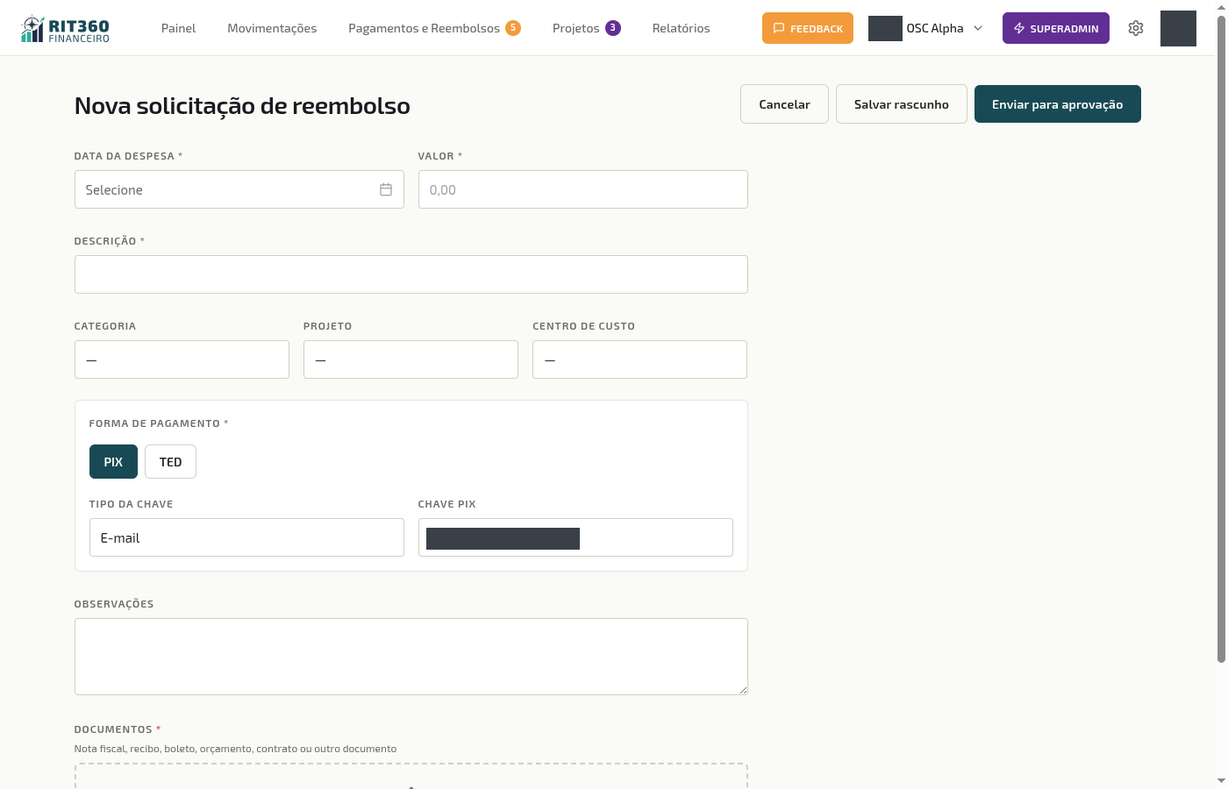
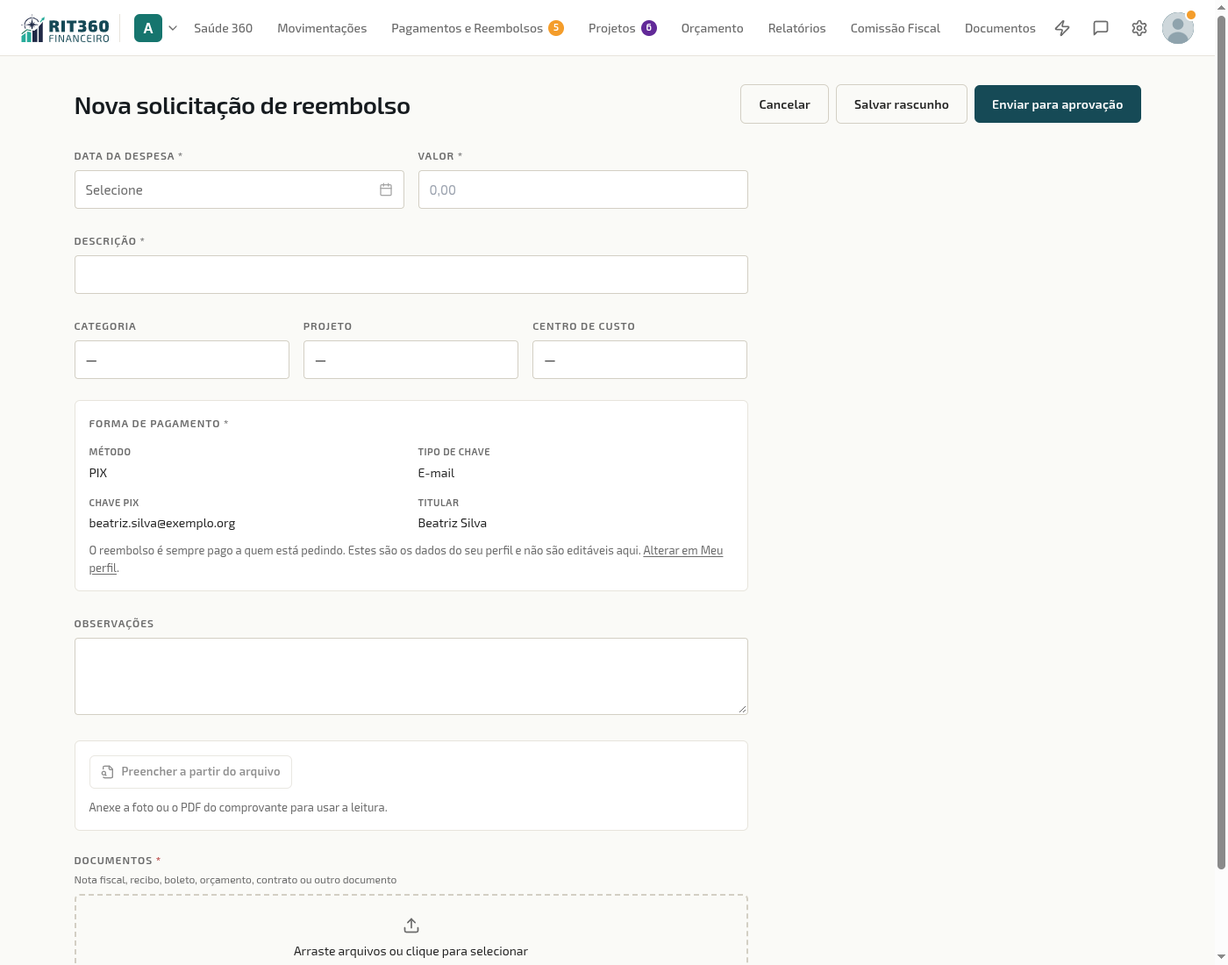
docs(manual): recapturas anonimizadas (#411), sugestão do histórico (#370), produtos WooCommerce no projeto (#418)
- Recaptura, com dados fictícios aplicados no DOM antes do disparo, de 18 imagens que
  expunham ou tarjavam dado real: usuários, papéis, alterar e-mail, responsáveis do centro
  de custo, comissão fiscal (3), reembolsos (4), pedidos (1), perfil, feedback, página
  pública (2), vincular lançamentos (desktop e celular) e financeiro do projeto.
- Novas capturas: sugestão a partir do histórico (reembolso, pedido e lançamento),
  botão "Preencher a partir do arquivo" e interruptores do gestor de centro de custo.
- Texto novo em reembolsos, pedidos e movimentações (sugestão do histórico e preencher a
  partir do arquivo), fluxo de aprovações (dois interruptores), cargos (recorte do
  coordenador) e projetos (produtos do WooCommerce, vincular vendas passadas, motivo).
- CPF de exemplo em usuarios.md trocado por valor claramente fictício e inválido.

diff --git a/modulos/projetos.md b/modulos/projetos.md
@@ -418,12 +418,6 @@ O Financeiro mostra o dinheiro do projeto sem tirar nada do caixa geral da OSC:
 ### Vincular lançamentos existentes
 {: #vincular-lançamentos-existentes }
 
-[![Janela "Vincular lançamentos existentes", com o filtro por conta, a faixa "N pode ser vinculado; M têm categoria fora das permitidas" e a lista de não elegíveis expandida, com a caixa desabilitada e o motivo em laranja](/assets/screenshots/manual-projetos-vincular-lancamentos-desktop.png)](/assets/screenshots/manual-projetos-vincular-lancamentos-desktop.png)
-*Vincular lançamentos existentes — os não elegíveis aparecem com o motivo, mas não podem ser marcados*
-
-[![A mesma janela no celular](/assets/screenshots/manual-projetos-vincular-lancamentos-mobile.png)](/assets/screenshots/manual-projetos-vincular-lancamentos-mobile.png)
-*A mesma janela, no celular*
-
 Ao clicar em **Vincular lançamentos existentes**, a janela lista as movimentações da organização que **ainda não têm projeto** — com busca por título ou contraparte e um **filtro por conta bancária**, útil quando a OSC segrega uma conta por projeto (ver [Conta com projeto e centro de custo padrão](/modulos/movimentacoes/#conta-com-projeto-e-centro-de-custo-padrao), em Movimentações) e você quer vincular só o que passou por aquela conta.
 
 A janela **conta**, o tempo todo, quantos lançamentos da lista **podem** e quantos **não podem** ser vinculados — a mesma regra de [Quando uma categoria não é aceita pelo projeto](#quando-uma-categoria-nao-e-aceita-pelo-projeto), acima: um projeto com categorias permitidas só aceita lançamento cuja categoria esteja na lista. Por padrão, a lista mostra só os elegíveis; um botão **"Mostrar os N não elegíveis"** traz os demais para conferência, com a caixa de seleção **desabilitada** em cada um — dá para ver por que ficaram de fora, mas não para marcá-los sem resolver o motivo primeiro.
@@ -445,7 +439,13 @@ A janela **conta**, o tempo todo, quantos lançamentos da lista **podem** e quan
 ### Quando algum lançamento já está pago
 {: #vincular-lancamento-ja-pago }
 
-Se, entre os lançamentos que você selecionou, **algum já estiver pago**, a janela avisa **quantos** — por exemplo, *"2 dos 5 selecionados já estão pagos"* (ou *"Os 3 lançamentos selecionados já estão pagos"*, quando são todos) — e abre um campo **de motivo**, obrigatório, com **pelo menos 10 caracteres**. Enquanto o motivo não tiver 10 caracteres (espaços no começo e no fim não contam), o botão de confirmar fica desabilitado; e, sem motivo, **nada é vinculado** — nem os pendentes da mesma seleção, porque o lote é aceito ou recusado inteiro. O motivo fica **registrado no histórico**. Selecionando só lançamentos pendentes ou atrasados, o campo nem aparece.
+[![Janela "Vincular lançamentos existentes" com três lançamentos já pagos selecionados: o aviso laranja "Os 3 lançamentos selecionados já estão pagos", o campo do motivo preenchido e o botão "Vincular 3 lançamentos" habilitado](/assets/screenshots/manual-projetos-vincular-lancamentos-desktop.png)](/assets/screenshots/manual-projetos-vincular-lancamentos-desktop.png)
+*Com lançamentos já pagos na seleção, a janela abre o campo do motivo, obrigatório — aqui já preenchido, com o botão de confirmar liberado*
+
+[![A mesma janela no celular, com o aviso dos lançamentos já pagos e o campo do motivo no alto da lista](/assets/screenshots/manual-projetos-vincular-lancamentos-mobile.png)](/assets/screenshots/manual-projetos-vincular-lancamentos-mobile.png)
+*A mesma janela, no celular*
+
+Se, entre os lançamentos que você selecionou, **algum já estiver pago**, a janela avisa **quantos** — por exemplo, *"2 dos 5 selecionados já estão pagos"* (ou *"Os 3 lançamentos selecionados já estão pagos"*, quando são todos) — e abre um campo **de motivo**, obrigatório, com **pelo menos 10 caracteres** (a própria tela diz *"Mínimo de 10 letras."*). Enquanto o motivo não tiver 10 caracteres (espaços no começo e no fim não contam), o botão de confirmar fica desabilitado; e, sem motivo, **nada é vinculado** — nem os pendentes da mesma seleção, porque o lote é aceito ou recusado inteiro. O motivo fica **registrado no histórico**. Selecionando só lançamentos pendentes ou atrasados, o campo nem aparece.
 
 O mesmo vale para o **vínculo retroativo das vendas do WooCommerce**: quando você associa um produto da loja ao projeto e a tela pergunta **"Vincular vendas passadas?"**, a janela mostra, do mesmo jeito, quantas das vendas encontradas já estão pagas e pede o motivo — seja você vincular todas ou só as **a partir de uma data**. Como as vendas da loja entram no RIT360 Financeiro já pagas, na prática o motivo costuma ser exigido nesse caminho.
 
@@ -460,6 +460,39 @@ O mesmo vale para o **vínculo retroativo das vendas do WooCommerce**: quando vo
 > ⚠ **Atenção · Se aparecer "Motivo obrigatório"**
 >
 > A mensagem *"Há lançamento já pago. Escreva o motivo do vínculo (mínimo 10 letras). Nada foi vinculado."* significa exatamente isso: nada foi alterado. Escreva o motivo (10 caracteres ou mais) e confirme de novo.
+
+### Produtos da loja (WooCommerce) no projeto {#produtos-woocommerce}
+
+Quando a organização vende pela loja virtual — camisetas do grupo, inscrições, doações —, as vendas entram no RIT360 Financeiro como lançamentos já pagos. O bloco de **produtos do WooCommerce** na visão geral do Financeiro do projeto serve para dizer **qual produto da loja pertence a este projeto**, de modo que as vendas dele entrem como **receita do projeto** e não como receita solta da organização. Sem isso, o dinheiro da campanha aparece no caixa geral e o relatório do projeto fica sem a receita que ele mesmo gerou.
+
+> 📖 **Conceito · Só aparece com a loja conectada**
+>
+> O bloco depende da integração com a loja: em **Configurações → Organização → WooCommerce**, a integração precisa estar **ativa** e o **catálogo de produtos** precisa ter sido sincronizado (botão **Sincronizar produtos do WooCommerce**, que mostra a data da última sincronização). Essa sincronização só traz a lista de produtos — não cria lançamentos nem altera pedidos. Com a integração desativada, o bloco não aparece no projeto.
+
+**Associar um produto ao projeto**
+
+1. Abra o projeto e vá à aba **Financeiro**; o bloco de produtos do WooCommerce fica na **Visão geral**.
+2. Escolha, entre os produtos sincronizados da loja, o que pertence a este projeto.
+3. Ao associar, a tela pergunta **"Vincular vendas passadas?"**:
+   - **Não** — nenhuma venda antiga é atribuída ao projeto; a pergunta é só sobre as vendas que **já aconteceram**.
+   - **Sim** — você escolhe se vincula **todas** as vendas já importadas desse produto ou **só as a partir de uma data**; as vendas encontradas são atribuídas ao projeto de uma vez.
+4. Se, entre as vendas encontradas, **alguma já estiver paga** — e as vendas da loja entram no sistema já pagas, então na prática é o caso comum —, a janela avisa quantas e **pede o motivo** do vínculo (obrigatório, mínimo de 10 caracteres, fica registrado no histórico). Sem o motivo, nada é vinculado. É a mesma regra de [Quando algum lançamento já está pago](#vincular-lancamento-ja-pago).
+
+<!-- CAPTURA PENDENTE: bloco "Produtos do WooCommerce" na visão geral do Financeiro de um projeto, e a pergunta "Vincular vendas passadas?" com o aviso de vendas já pagas e o campo do motivo. Rota /projetos/{id}?aba=financeiro, desktop e mobile. Não deu para capturar em 02/11/2026: na OSC Alpha a integração com a loja está desativada (Configurações → Organização → WooCommerce), e por isso o bloco não aparece em nenhum projeto; ligá-la exige credenciais da loja e grava configuração. Arquivos esperados: manual-projetos-produtos-woocommerce-desktop.png, manual-projetos-produtos-woocommerce-vendas-passadas-desktop.png -->
+
+> ⚠ **Atenção · "Vincular vendas passadas" muda os totais do projeto**
+>
+> As vendas antigas passam a contar como receita **deste** projeto: o saldo, a receita realizada e o relatório de acompanhamento dele mudam na hora. Vincule a partir de uma **data** quando o produto da loja existia antes do projeto (um produto reaproveitado de uma campanha anterior, por exemplo) — assim as vendas da campanha passada não entram na prestação de contas da atual. Ao escolher "todas", confira antes se todas as vendas daquele produto de fato pertencem ao projeto.
+
+> ✓ **Dica · O motivo é o que o auditor vai ler**
+>
+> Escreva o motivo como quem explica para a comissão fiscal: *"Vendas de camisetas de 2026, arrecadadas para o projeto desde o primeiro lote"* diz mais do que *"ajuste"*. O motivo fica no histórico dos lançamentos vinculados.
+
+**Quando dá errado**
+
+- **O produto que você procura não está na lista:** o catálogo não foi sincronizado desde que o produto foi criado na loja. Em **Configurações → Organização → WooCommerce**, use **Sincronizar produtos do WooCommerce**.
+- **O botão de confirmar não habilita:** o motivo ainda tem menos de 10 caracteres (espaços no começo e no fim não contam).
+- **Nada foi vinculado depois de recusar o motivo:** o lote é aceito ou recusado inteiro; refaça a operação com o motivo preenchido.
 
 ### Calculadora de taxa de evento (projetos do tipo Evento)
 
@@ -675,7 +708,7 @@ Uma despesa cuja categoria **não está associada a nenhum item** do plano vigen
 
 Se uma despesa faz um item **passar do valor aprovado**, o pagamento acontece normalmente — o RIT360 Financeiro **nunca retém nem recusa** um pagamento por isso. O que aparece é um aviso, no item e no lançamento, de que o valor está acima do aprovado e que o **financiador pode glosar** a despesa. O atalho para **Remanejar** fica à mão, junto do aviso.
 
-<!-- CAPTURA PENDENTE: item do plano de trabalho com gasto acima do aprovado — aviso "Já foi gasto mais do que o previsto nesta rubrica..." e o botão Remanejar. Rota /projetos/{id}?aba=financeiro, no Instituto Exemplo (projeto Oficina de Artesanato), desktop. Precisa de uma despesa que passe do aprovado de uma rubrica. Arquivo esperado: manual-projetos-fontes-04-acima-do-plano.png -->
+<!-- CAPTURA PENDENTE: item do plano de trabalho com gasto acima do aprovado — aviso "Já foi gasto mais do que o previsto nesta rubrica..." e o botão Remanejar. Rota /projetos/{id}?aba=financeiro, no Instituto Exemplo (projeto Oficina de Artesanato), desktop. Precisa de uma despesa que passe do aprovado de uma rubrica. Arquivo esperado: manual-projetos-fontes-04-acima-do-plano.png. Não deu em 02/11/2026: nenhum projeto da OSC Alpha tem financiador com plano de trabalho, e montar o cenário exige gravar fonte, plano e despesa na base. -->
 
 > ⚠ **Por que o sistema não trava o pagamento acima da rubrica**
 >
@@ -697,7 +730,7 @@ Ao lançar ou pagar uma despesa do projeto, o RIT360 Financeiro decide **fonte**
 - **Categoria não associada a nenhum item** — a despesa é paga e marcada [fora do plano de trabalho](#plano-de-trabalho), sem perguntar (não há o que escolher).
 
 <!-- CAPTURA PENDENTE: bloco "De qual dinheiro sai este lançamento" no formulário de novo lançamento (ou edição), mostrando os seletores de Fonte e de Rubrica do plano de trabalho quando há mais de uma opção, e o aviso de risco de glosa. Rota /movimentacoes/novo com um projeto de financiador com plano de trabalho e mais de uma fonte/item possível, viewport desktop e mobile.
-Tentativa registrada em 11/09/2026 (sessão de captura do manual): montei, no Instituto Exemplo, um projeto (Oficina de Artesanato) com DUAS fontes sem conta exclusiva (Caixa geral e o financiador "Instituto Parceiro Educacional"), cada uma com um item de plano de trabalho usando a MESMA categoria ("Material de escritório"), para forçar a ambiguidade que o texto acima descreve. Mesmo assim, o formulário de novo lançamento só mostrou a caixa "Esta despesa é uma devolução ao financiador", sem os seletores de Fonte/Rubrica — e a chamada de rede `resolve_movement_funding` sempre voltou com uma fonte e um item já decididos, sem pedir confirmação. Não decidido se é um caso que o sistema realmente resolve sozinho por alguma regra de desempate não documentada aqui, ou se a tela do seletor não está implementada neste cenário. Quem retomar: comece conferindo o código-fonte da resolução (RPC `resolve_movement_funding`) antes de tentar mais combinações de dados de teste. -->
+Tentativa registrada em 11/09/2026 (sessão de captura do manual): montei, no Instituto Exemplo, um projeto (Oficina de Artesanato) com DUAS fontes sem conta exclusiva (Caixa geral e o financiador "Instituto Parceiro Educacional"), cada uma com um item de plano de trabalho usando a MESMA categoria ("Material de escritório"), para forçar a ambiguidade que o texto acima descreve. Mesmo assim, o formulário de novo lançamento só mostrou a caixa "Esta despesa é uma devolução ao financiador", sem os seletores de Fonte/Rubrica — e a chamada de rede `resolve_movement_funding` sempre voltou com uma fonte e um item já decididos, sem pedir confirmação. Não decidido se é um caso que o sistema realmente resolve sozinho por alguma regra de desempate não documentada aqui, ou se a tela do seletor não está implementada neste cenário. Quem retomar: comece conferindo o código-fonte da resolução (RPC `resolve_movement_funding`) antes de tentar mais combinações de dados de teste.  Não deu em 02/11/2026: o bloco só aparece em projeto com financiador e plano de trabalho, e nenhum projeto da OSC Alpha tem isso (testei os seis projetos no formulário). -->
 
 **Parcelas e recorrências herdam a escolha** feita no lançamento — todas as ocorrências criadas junto passam a valer para a mesma fonte e item, exceto as que caem fora do período de validade da fonte escolhida.
 

diff --git a/modulos/reembolsos.md b/modulos/reembolsos.md
@@ -268,6 +268,52 @@ Marcar como pago exige a permissão de **pagar**, separada da de criar e editar 
 
 Clique em **+ Nova solicitação** para abrir o formulário.
 
+### Sugestão a partir do histórico {#sugestao-do-historico}
+
+Pedir o mesmo tipo de reembolso todo mês (o lanche da reunião, a papelaria da secretaria) é repetir sempre os mesmos campos. Por isso o formulário **oferece reembolsos anteriores da sua organização** enquanto você digita a descrição — para você aproveitar o que já foi classificado uma vez, em vez de classificar de novo.
+
+[![Lista de sugestões abaixo do campo Descrição, com dois reembolsos anteriores que começam com "Material"; cada um mostra o valor e a data em letra pequena](/assets/screenshots/reembolso-sugestao-historico-desktop.png)](/assets/screenshots/reembolso-sugestao-historico-desktop.png)
+*Ao digitar "Material" no campo Descrição, a lista mostra reembolsos anteriores parecidos, com o valor e a data de cada um*
+
+1. No formulário de nova solicitação, comece a digitar a **Descrição**.
+2. Se a organização já teve algum reembolso parecido, uma lista aparece logo abaixo do campo. Cada item mostra a descrição e, em letra pequena, o valor e a data daquele reembolso.
+3. Clique no que serve. O formulário se preenche e aparece, abaixo da descrição, o aviso **"Campos preenchidos a partir de um reembolso anterior. Confira e informe o valor e a data."**
+4. Informe o **valor** e a **data da despesa**, anexe o **comprovante** e envie normalmente.
+
+[![Formulário depois de escolher uma sugestão: a descrição preenchida, o aviso "Campos preenchidos a partir de um reembolso anterior" e os campos Data da despesa e Valor ainda em branco](/assets/screenshots/reembolso-sugestao-aplicada-desktop.png)](/assets/screenshots/reembolso-sugestao-aplicada-desktop.png)
+*Depois de escolher a sugestão: a descrição e a classificação vêm do reembolso anterior; valor e data continuam por sua conta*
+
+**O que a sugestão preenche e o que ela deixa para você**
+
+- **Preenche:** a descrição e a classificação do reembolso anterior (categoria, projeto e centro de custo, quando ele tinha).
+- **Não preenche:** o **valor**, a **data da despesa** e o **comprovante**. Cada reembolso é uma despesa nova, com nota nova — copiar valor e data de outra despesa seria a forma mais fácil de pedir o dinheiro errado.
+- **Dados de pagamento:** nunca vêm da sugestão. No reembolso eles já saem do seu perfil (ver [Para onde vai o dinheiro](#dados-de-pagamento-vem-do-perfil)), então não há o que herdar de reembolso de outra pessoa.
+- **O que você já tinha digitado** em outros campos (por exemplo, o valor) **continua lá**. O que muda é o texto da própria descrição, que passa a ser o da sugestão escolhida.
+
+**Se não quiser usar a sugestão:** ignore a lista e continue digitando — o formulário só muda se você clicar numa sugestão. Nada é gravado enquanto você não clicar em **Salvar rascunho** ou **Enviar para aprovação**; se escolheu a sugestão errada, é só corrigir os campos.
+
+> ⚠ **Atenção · Sugestão não é conferência**
+>
+> A classificação que veio do reembolso anterior pode já não valer: o projeto pode ter sido encerrado, ou a despesa de agora é de outro centro de custo. Quem aprova olha a classificação que você enviou, não a do reembolso antigo — e um reembolso classificado errado só costuma ser percebido na hora de fechar o relatório do projeto. Leia **Categoria**, **Projeto** e **Centro de custo** antes de enviar.
+
+> ✓ **Dica · Use a lista para manter o mesmo nome**
+>
+> Quando você escolhe a descrição que já existe em vez de digitar uma parecida, o relatório agrupa os gastos iguais sob o mesmo nome. "Lanche reunião" e "Lanche da reunião" viram dois itens diferentes na hora de somar.
+
+**Quando dá errado**
+
+- **A lista não aparece:** ainda não há reembolso parecido na sua organização, ou o começo da descrição está muito diferente do que foi registrado antes. É só preencher à mão.
+- **Escolhi a sugestão errada:** corrija a descrição e os campos de classificação; nenhum dado foi enviado.
+
+### Preencher a partir do arquivo {#preencher-a-partir-do-arquivo}
+
+[![Trecho do formulário com o botão "Preencher a partir do arquivo" e o texto "Anexe a foto ou o PDF do comprovante para usar a leitura."](/assets/screenshots/manual-06d-novo-reembolso.png)](/assets/screenshots/manual-06d-novo-reembolso.png)
+*O botão fica abaixo das observações, acima da área de documentos*
+
+Perto do fim do formulário há o botão **Preencher a partir do arquivo**, com a orientação *"Anexe a foto ou o PDF do comprovante para usar a leitura."* Ele só serve depois que você anexa o comprovante: o sistema lê a foto ou o PDF e propõe os campos do formulário. O que veio do documento fica **marcado**, e **nada que você já digitou é trocado sem você escolher**.
+
+A leitura do comprovante é feita por inteligência artificial de terceiros; o que é enviado e para quem está em [Privacidade](/privacidade/). Como em qualquer preenchimento automático, **confira valor, data e descrição** antes de enviar: o sistema lê o documento, mas quem responde pelo pedido é você.
+
 ### Envio rápido de comprovantes via Bot do Telegram
 
 Além de preencher o formulário manualmente na tela, você pode fotografar ou encaminhar o comprovante diretamente para o **Bot do RIT360 no Telegram** (`@rit360financeiro_bot`):

diff --git a/modulos/movimentacoes.md b/modulos/movimentacoes.md
@@ -391,6 +391,36 @@ Clique em **+ Novo lançamento** no topo da lista. O formulário abre em **pági
 - **Valor total**
 - **Conta** — qual conta financeira movimenta. Já vem **pré-selecionada com a [conta padrão](/configuracoes/contas/#conta-padrão)** da OSC; troque se for outra. O saldo de cada conta aparece junto no seletor — para quem tem a permissão [Ver saldo das contas](/configuracoes/cargos/#permissao-ver-saldo); sem ela, o seletor funciona igual, só sem mostrar o valor
 
+#### Sugestão a partir do histórico {#sugestao-do-historico}
+
+Lançar todo mês a mesma conta de luz, o mesmo aluguel ou a mesma papelaria é preencher de novo conta, categoria e projeto. Por isso o campo **Descrição** **oferece lançamentos anteriores da sua organização** enquanto você digita.
+
+[![Lista de sugestões abaixo do campo Descrição no novo lançamento: um lançamento anterior que começa com "Papel", com valor e data em letra pequena](/assets/screenshots/mov-sugestao-descricao-desktop.png)](/assets/screenshots/mov-sugestao-descricao-desktop.png)
+*Ao digitar "Papel" na descrição, a lista mostra o lançamento anterior parecido, com o valor e a data*
+
+1. No formulário, comece a digitar a **Descrição**.
+2. Se existir lançamento parecido, a lista aparece abaixo do campo, com o valor e a data de cada um.
+3. Clique no que serve. A descrição, a **conta**, a **categoria** e o **projeto** do lançamento anterior entram no formulário, e aparece o aviso **"Campos preenchidos a partir de um lançamento anterior. Confira e informe o valor."**
+4. Informe o **valor** (ele nunca vem da sugestão), confira as datas e salve.
+
+[![Formulário depois de escolher a sugestão: descrição, conta, categoria e projeto preenchidos, o aviso "Campos preenchidos a partir de um lançamento anterior" e o valor ainda em branco, com o checklist à direita acusando a falta do valor](/assets/screenshots/mov-sugestao-aplicada-desktop.png)](/assets/screenshots/mov-sugestao-aplicada-desktop.png)
+*Depois de escolher a sugestão: o valor continua em branco, e o checklist da direita avisa que falta*
+
+**Atenção ao que a sugestão deixa para você:** o **valor** e as **datas**. A data de vencimento do formulário continua sendo a de hoje, e a data de pagamento continua vazia — o novo lançamento **não** nasce marcado como pago. E dados de pagamento do favorecido, como chave PIX ou conta bancária, **nunca vêm da sugestão**: confira e informe de novo, a cada lançamento.
+
+**Se não quiser usar a sugestão:** ignore a lista e continue digitando. O formulário só muda se você clicar numa sugestão, e o que você já tinha digitado em outros campos (como o valor) continua lá; muda o texto da própria descrição, que passa a ser o da sugestão. Nada é gravado até você salvar.
+
+> ⚠ **Atenção · Conta e categoria vêm junto — troque se este lançamento for de outra conta**
+>
+> Aceitar a sugestão escolhe a conta do lançamento antigo. Se este pagamento saiu de outra conta, o saldo errado será mexido e a conciliação com o extrato vai acusar a diferença. Confira o campo **Conta** antes de salvar.
+
+#### Preencher a partir do arquivo {#preencher-a-partir-do-arquivo}
+
+[![Trecho do formulário de novo lançamento com o botão "Preencher a partir do arquivo", a orientação para anexar a foto ou o PDF do comprovante e a área de anexos logo abaixo](/assets/screenshots/mov-preencher-do-arquivo-desktop.png)](/assets/screenshots/mov-preencher-do-arquivo-desktop.png)
+*O botão fica acima da área de anexos*
+
+Perto dos anexos há o botão **Preencher a partir do arquivo**, com a orientação *"Anexe a foto ou o PDF do comprovante para usar a leitura."* Depois de anexar o comprovante, ele lê o documento e propõe os campos; o que veio do documento fica **marcado**, e **nada que você já digitou é trocado sem você escolher**. A leitura é feita por inteligência artificial de terceiros (ver [Privacidade](/privacidade/)) — **confira valor, data e favorecido** antes de salvar.
+
 #### Conta com projeto e centro de custo padrão
 {: #conta-com-projeto-e-centro-de-custo-padrao }
 

diff --git a/configuracoes/workflow.md b/configuracoes/workflow.md
@@ -103,6 +103,16 @@ Você pode indicar como aprovador até um **membro recém-cadastrado que ainda n
 
 Além dos papéis e das pessoas específicas, a OSC pode permitir que o **gestor de um centro de custo** aprove os pagamentos e reembolsos **do próprio centro de custo que ele gerencia**. O ajuste fica no bloco **Quem pode aprovar** e começa **desligado** — cada OSC liga conforme o seu estatuto.
 
+São **dois interruptores independentes**, um para cada tipo de item:
+
+- **"Permitir que o gestor de centro de custo aprove reembolsos do seu próprio centro de custo"**
+- **"Permitir que o gestor de centro de custo aprove pedidos de pagamento do seu próprio centro de custo"**
+
+Você pode ligar um e deixar o outro desligado — por exemplo, deixar o gestor aprovar os reembolsos pequenos da área, mas manter os pedidos de compra e pagamento só com a diretoria. Abaixo de cada interruptor, a tela mostra quantas pessoas ficam aptas a aprovar **com a escolha atual** ("Com esta escolha, 3 pessoa(s) ficam aptas a aprovar reembolsos."), que é a conferência de que o ajuste fez o efeito que você queria.
+
+[![Bloco "Quem pode aprovar", com os dois interruptores do gestor de centro de custo (reembolsos e pedidos de pagamento) desligados, abaixo de cada um a contagem de pessoas aptas, e o bloco "Quem pode solicitar pagamentos" logo abaixo](/assets/screenshots/config-aprovacoes-gestor-cc-interruptores.png)](/assets/screenshots/config-aprovacoes-gestor-cc-interruptores.png)
+*Os dois interruptores do gestor de centro de custo, ambos desligados — o padrão. Mais abaixo, os de "Quem pode solicitar pagamentos"*
+
 Quando ligado, o gestor **soma-se** aos aprovadores já definidos (papéis + pessoas): ele passa a contar como aprovador elegível **apenas** para os itens do centro de custo sob sua responsabilidade, e **não** altera o número de aprovações exigidas nem os papéis configurados.
 
 > ✓ **Dica · Ligue só se o estatuto delegar ao gestor de CC**

diff --git a/configuracoes/cargos.md b/configuracoes/cargos.md
@@ -26,6 +26,10 @@ A página **Cargos e permissões** vai além dos 7 cargos padrão da plataforma:
 >
 > **Cargos padrão** são os 7 que já vêm na plataforma (Presidente, Tesoureiro, Diretor, Gestor de Centro de Custo, Coord. de projeto, Comissão Fiscal, Voluntário) — aparecem com a etiqueta **Padrão**. **Cargos personalizados** são os que a sua OSC cria — etiqueta **Personalizado**. A diferença prática está na edição (veja abaixo): cargo padrão tem um piso de permissões que não sai; cargo personalizado é totalmente editável.
 
+> ℹ **O cargo padrão Coord. de projeto só enxerga os lançamentos dos próprios projetos**
+>
+> Quem tem o cargo padrão **Coord. de projeto** vê apenas os lançamentos dos projetos que coordena — e abre o detalhe deles a partir do projeto. O menu **Movimentações** não aparece para esse cargo; saldos e orçamento seguem como antes. A regra vale para as organizações que já existiam e para as novas. **Cargos personalizados não mudam**: se você criou um cargo para coordenadores com acesso a Movimentações, ele continua como estava. Ver [O que o Coordenador de Projeto enxerga](/papeis/#o-que-o-coordenador-enxerga).
+
 > 📖 **Conceito · Permissões essenciais e acréscimos**
 >
 > Cada cargo padrão tem um conjunto de **permissões essenciais** — o piso que define aquele papel e **não pode ser removido** (aparece travado, com a etiqueta "essencial"). O Presidente só pode **acrescentar** permissões sobre esse piso. Já um cargo personalizado não tem piso: todas as permissões são interruptores que você liga e desliga livremente.

diff --git a/configuracoes/usuarios.md b/configuracoes/usuarios.md
@@ -80,7 +80,7 @@ Para OSCs que estão migrando de outro sistema ou que precisam cadastrar muitos 
 
 > ⚠ **Atenção · No Excel, formate CPF, RG e telefone como TEXTO antes de digitar**
 >
-> Se a coluna estiver no formato **Número** (o padrão do Excel para colunas novas), digitar um CPF como `012.345.678-00` ou um telefone com DDD `0121...` faz o Excel **apagar o zero à esquerda** — e não tem como o RIT360 Financeiro recuperar um dígito que já não está mais na planilha. Antes de preencher essas colunas, selecione-as e formate como **Texto** (botão direito → Formatar células → Texto, ou pela caixa de formato na barra superior). Datas de nascimento não têm esse problema — o Excel guarda a data corretamente e o RIT360 Financeiro interpreta certo na importação.
+> Se a coluna estiver no formato **Número** (o padrão do Excel para colunas novas), digitar um CPF como `001.234.567-00` ou um telefone com DDD `0121...` faz o Excel **apagar o zero à esquerda** — e não tem como o RIT360 Financeiro recuperar um dígito que já não está mais na planilha. Antes de preencher essas colunas, selecione-as e formate como **Texto** (botão direito → Formatar células → Texto, ou pela caixa de formato na barra superior). Datas de nascimento não têm esse problema — o Excel guarda a data corretamente e o RIT360 Financeiro interpreta certo na importação.
 
 > ⚠ **Atenção · Limites da planilha**
 >
